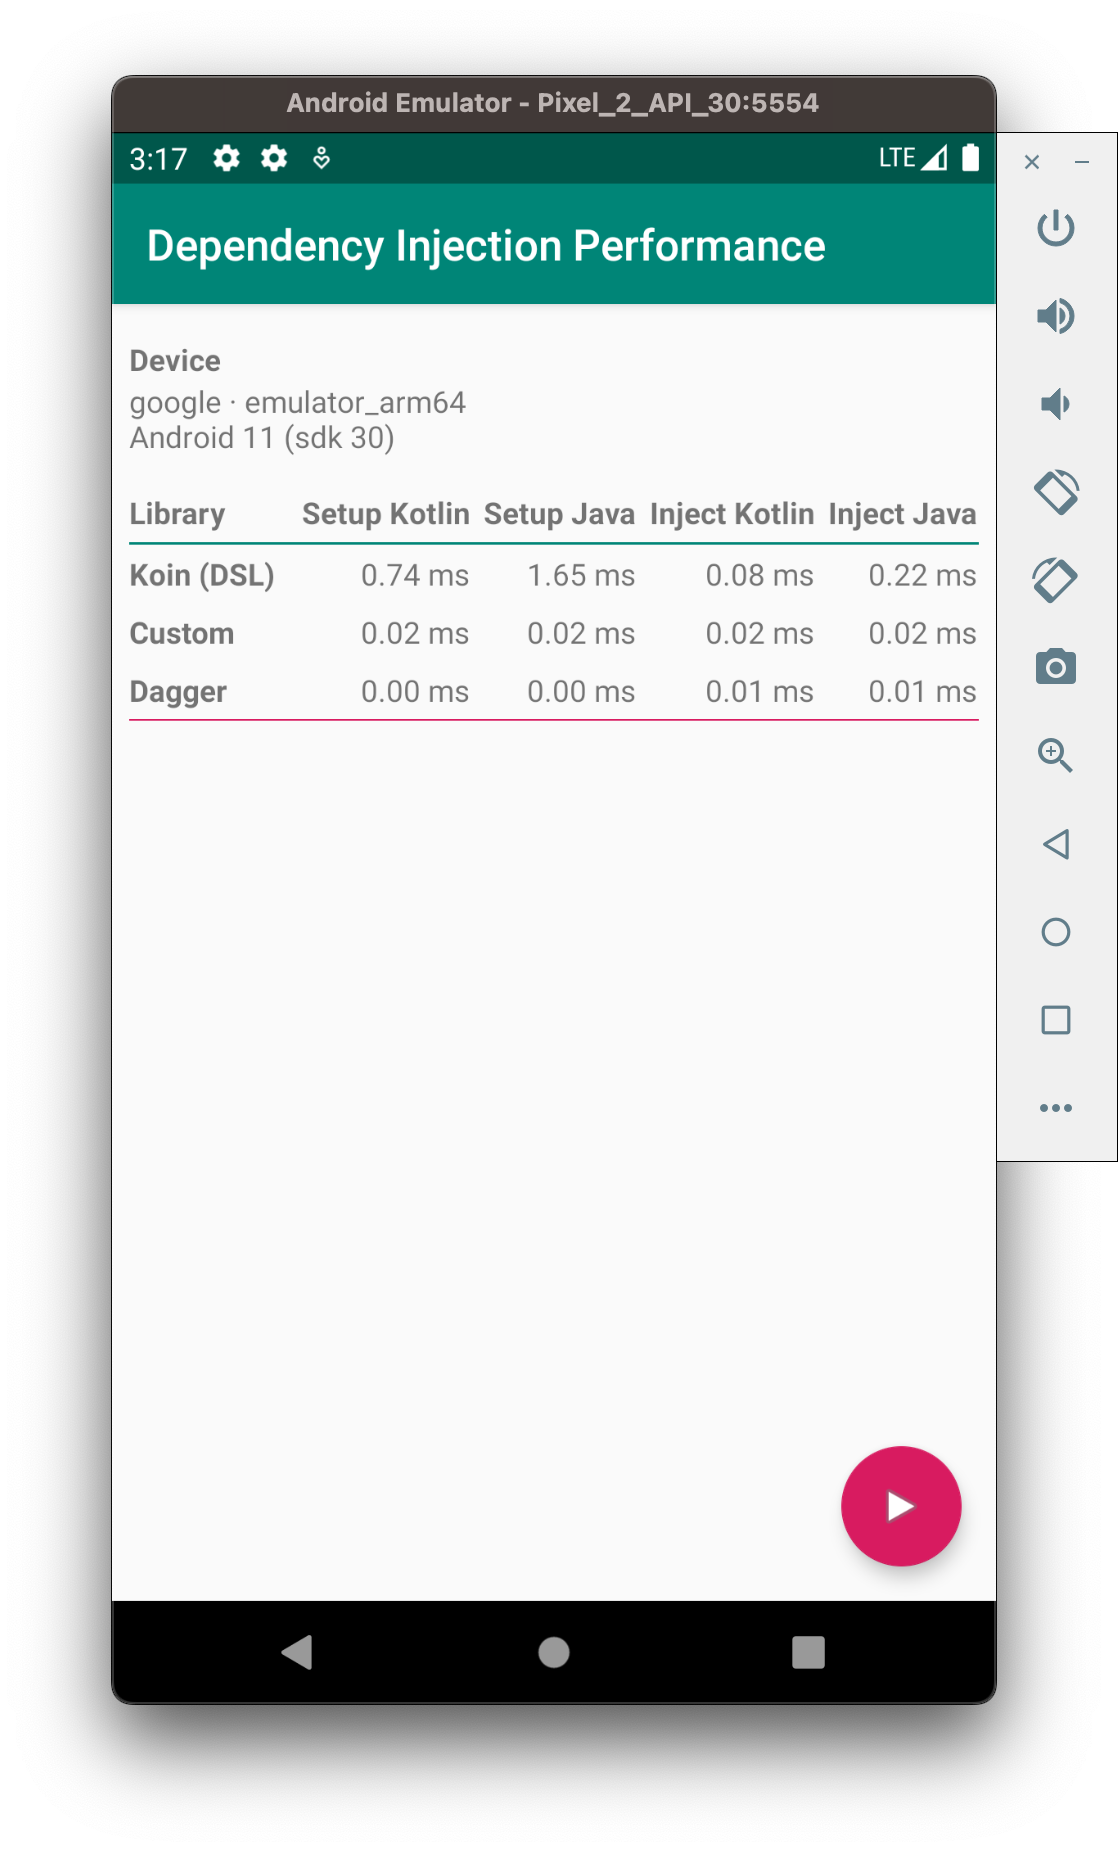
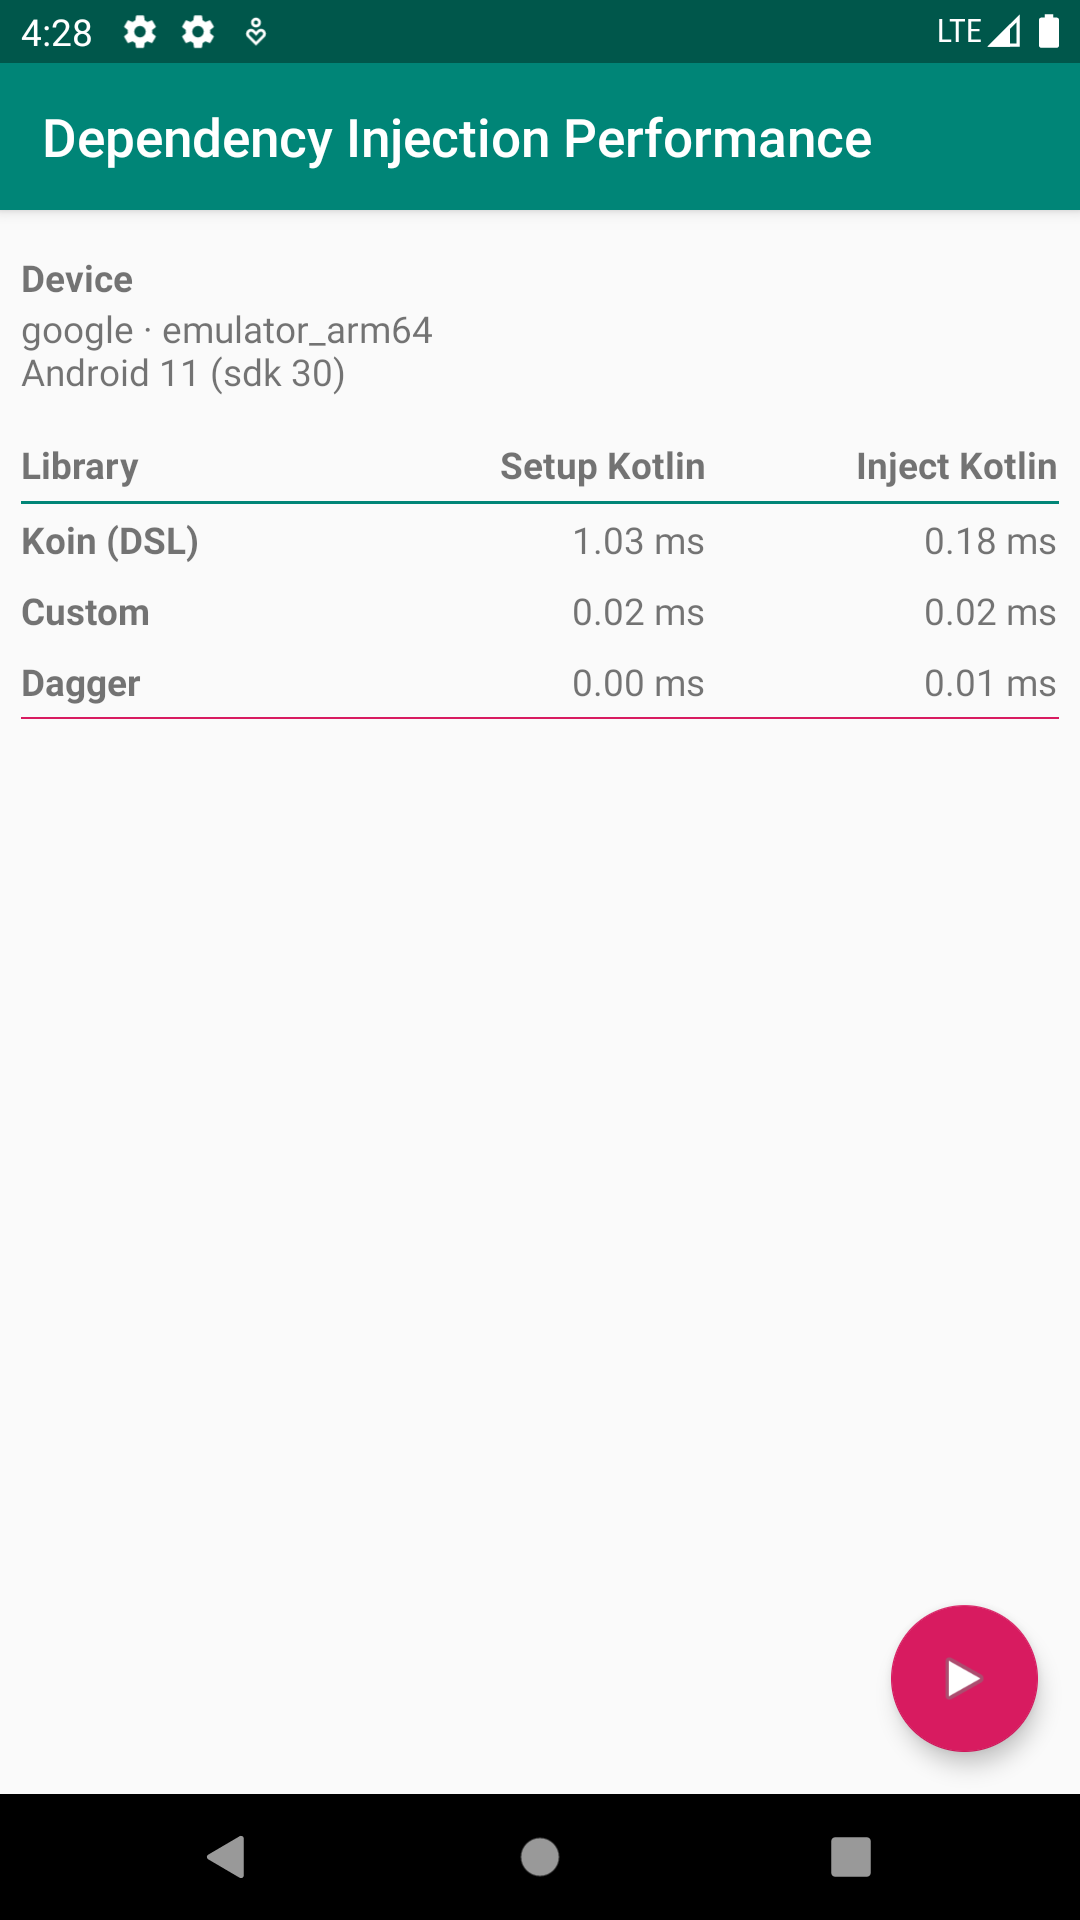
remove duplicate test and update result image

diff --git a/app/src/main/java/com/sloydev/dependencyinjectionperformance/InjectionTest.kt b/app/src/main/java/com/sloydev/dependencyinjectionperformance/InjectionTest.kt
@@ -21,7 +21,6 @@ class InjectionTest : KoinComponent {
     fun runTests(): List<LibraryResult> {
         val results = listOf(
             koinTest(),
-            koinAnnotationTest(),
             customTest(),
             daggerTest()
         )
@@ -57,21 +56,6 @@ class InjectionTest : KoinComponent {
     private fun koinTest(): LibraryResult {
         log("Running Koin...")
         return LibraryResult("Koin (DSL)", mapOf(
-            Variant.KOTLIN to runTest(
-                setup = {
-                    startKoin {
-                        modules(koinKotlinModule)
-                    }
-                },
-                test = { get<Fib8>() },
-                teardown = { stopKoin() }
-            ),
-        ))
-    }
-
-    private fun koinAnnotationTest(): LibraryResult {
-        log("Running Koin...")
-        return LibraryResult("Koin (Annotation)", mapOf(
             Variant.KOTLIN to runTest(
                 setup = {
                     startKoin {
